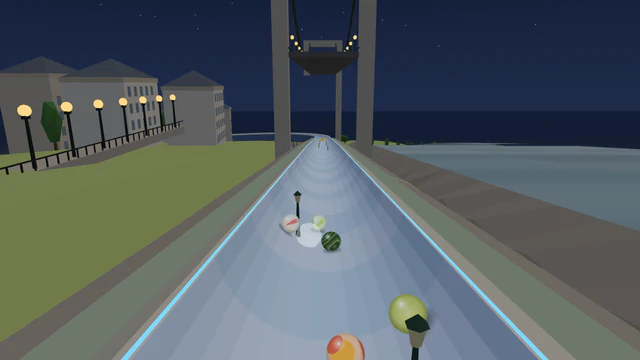
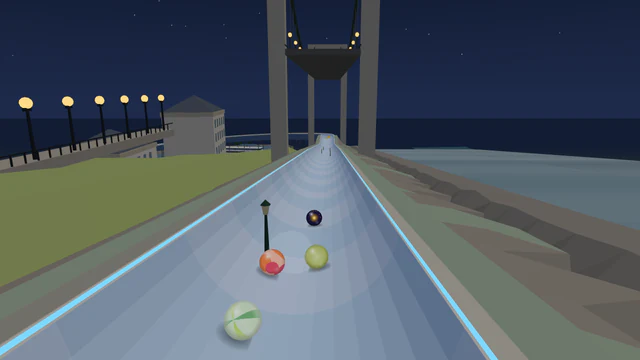
Rivers WIP: Danube quay block, luckier bridge slalom, lighter start
Claude-Session: https://claude.ai/code/session_011vSSkqNPL9kncfzrwF15wS

diff --git a/src/trackKit/layouts.js b/src/trackKit/layouts.js
@@ -1287,10 +1287,10 @@ const LAYOUTS = {
       obstacles: [parked({ costume: c.parked, at: 0.2, side: L, length: 6 }), peg({ costume: c.peg, at: 0.45, line: 'right' })], features: [rumble({ from: 0.72, to: 0.95, count: 3 })],
     },
   ],
-  /** L74 Bridge slalom (Rivers): a quay straight (two pegs, to mix the field out of the launch tunnel), a slalom straight between a chain bridge's piers, a short climb up to the bridge, a long sweep out over the river (a boost; it flies here), a drop back to the bank, the hairpin, a spiral round an island, S-bends along the far bank and a parked piece and a peg at the run-in. */
+  /** L74 Bridge slalom (Rivers): a quay straight (a block, to mix the field out of the launch tunnel), a slalom straight between a chain bridge's piers, a short climb up to the bridge, a long sweep out over the river (a boost; it flies here), a drop back to the bank, the hairpin, a spiral round an island, S-bends along the far bank and a parked piece and a peg at the run-in. */
   'bridge-slalom': (L, R, c) => [
-    { key: 'quay', name: 'Quay straight', shape: straight(100, { grade: 0.11 }), obstacles: [peg({ costume: c.peg, at: 0.15, line: 'left' }), peg({ costume: c.peg, at: 0.3, line: 'right' })], billboards: 1 },
-    { key: 'pillars', name: 'Bridge slalom', shape: straight(100, { grade: 0.12 }), obstacles: [slalom({ costume: c.slalom, from: 0.25, to: 0.85, count: 4, loss: 0.15 })], billboards: 1 },
+    { key: 'quay', name: 'Quay straight', shape: straight(100, { grade: 0.11 }), obstacles: [block({ costume: c.block, at: 0.25, line: 'center' })], billboards: 1 },
+    { key: 'pillars', name: 'Bridge slalom', shape: straight(100, { grade: 0.12 }), obstacles: [slalom({ costume: c.slalom, from: 0.25, to: 0.85, count: 4, loss: 0.2 })], billboards: 1 },
     { key: 'rise', name: 'Up to the bridge', shape: climb(12, { grade: -0.05, after: 0.12 }) },
     { key: 'flyOut', name: 'Sweep over the river', shape: sweep({ side: R, radius: 90, degrees: 150, grade: 0.085 }), features: [boost({ at: 0.08 })], billboards: 2 },
     { key: 'drop', name: 'Drop', shape: plunge(45, { grade: 0.22, from: 0.085 }) },

diff --git a/src/tracks/danube-night-run.js b/src/tracks/danube-night-run.js
@@ -19,7 +19,7 @@ module.exports = track({
   river: { palette: 'danube', side: 'left', width: 110, banks: 'quay' },
   coaster: { colours: { support: '#5a5e66', rail: '#e8e2cc', tie: '#2f3238' } },
   signature: 'The chain bridge slalom',
-  start: { landmark: 'quay-lamps', scenery: ['city-quay'], type: 'pier', gate: 'barrier', shots: { countdown: 'side', launch: 'low-chase' } },
+  start: { landmark: 'quay-lamps', type: 'pier', gate: 'barrier', shots: { countdown: 'side', launch: 'low-chase' } },
   finish: { landmark: 'domed-hall' },
   designChanges: [
     'Built from the tunnel launch (out from under the quay) and the bridge slalom, the library layout made for this track: a quay straight, a slalom between a chain bridge\'s piers, a short climb, a sweep out over the river, a drop, the hairpin, a spiral round an island, S-bends along the far bank and the run-in.',
@@ -32,7 +32,7 @@ module.exports = track({
     dress: { portal: { height: 0, river: 'left' }, tunnel: { height: 0, river: 'left' } },
   }),
   sections: layout('bridge-slalom', {
-    costumes: { slalom: 'mooring-pole', peg: 'street-lamp', swipe: 'container-crane', parked: 'river-ferry' },
+    costumes: { block: 'stone-block', slalom: 'mooring-pole', peg: 'street-lamp', swipe: 'container-crane', parked: 'river-ferry' },
     dress: {
       quay: { name: 'Along the embankment', height: 0, river: 'left', scenery: ['city-quay'], landmarks: [{ name: 'quay-lamps', at: 0.5, side: 'right', distance: 18 }] },
       pillars: { name: 'The chain bridge slalom', height: 0, river: 'left', overhead: ['chain-bridge'], scenery: ['city-quay'] },

diff --git a/src/tracks/README.md b/src/tracks/README.md
@@ -147,7 +147,7 @@ module.exports = track({
   | `steeple-water` (track and field) | barrier1, sweep, barrier2, waterJump (a light brake), sBends, drop, brakingStraight, hairpin, spin, sweep2, lastStraight |
   | `anchor-arches` (track and field) | sBends, crest, arches (a drop), sweep, spin, brakingStraight, hairpin, sweep2, lastStraight (150 m) |
   | `golden-lap` (track and field) | sweep, drop, pegStraight, brakingStraight, hairpin, spin, goldenSweep, sBends, lastStraight |
-  | `bridge-slalom` (rivers) | quay (two pegs), pillars (a slalom under a chain bridge), rise (a short climb), flyOut, drop, brakingStraight, hairpin, island (a spiral), farBank (S-bends), lastStraight |
+  | `bridge-slalom` (rivers) | quay (a block), pillars (a slalom under a chain bridge), rise (a short climb), flyOut, drop, brakingStraight, hairpin, island (a spiral), farBank (S-bends), lastStraight |
   | `market-maze` (rivers) | boats (a slalom among the market boats), bankBends (S-bends), pierRamp (a short climb), pierDrop, brakingStraight, hairpin, bankSweep, spin, underPier, pontoon (two pegs), lastStraight |
   | `steamer-pass` (rivers) | levee (three pegs), steamer (a tunnel through a paddle steamer; a boost), bayou, drop, brakingStraight, hairpin, town (S-bends), slalomDrop, landing, lastStraight |
   | `falls-edge` (rivers) | lipBend, lip (pegs), falls (a waterfall), gorge (a slalom), spin, brakingStraight, hairpin, upstream (S-bends), lastStraight |
